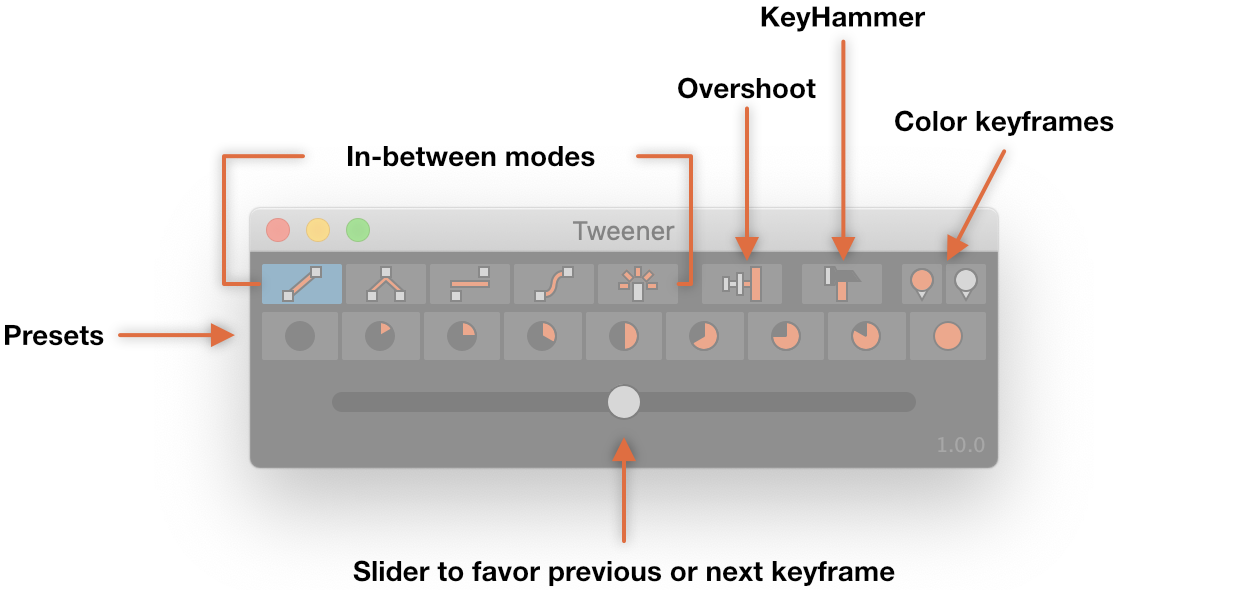
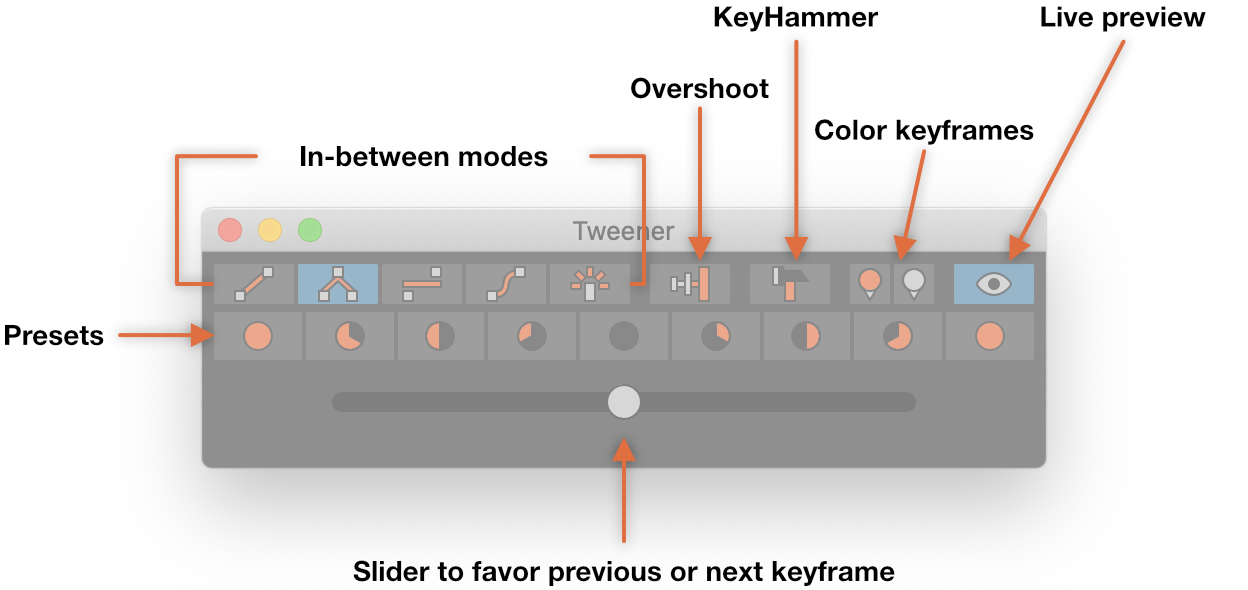
Added live preview toggle. Refactoring.

diff --git a/mods/ui.py b/mods/ui.py
@@ -90,9 +90,10 @@ class TweenerUI(MayaQWidgetDockableMixin, QMainWindow):
         self.idle_callback = None
         self.dragging = False
         self.busy = False
+        self.live_preview = True
         
         # define window dimensions
-        self.setMinimumWidth(apply_dpi_scaling(370))
+        self.setMinimumWidth(apply_dpi_scaling(418))
         self.setSizePolicy(QSizePolicy.Minimum, QSizePolicy.Minimum)
         
         # style
@@ -187,33 +188,30 @@ class TweenerUI(MayaQWidgetDockableMixin, QMainWindow):
         self.overshoot_btn.clicked.connect(self.overshoot_button_clicked)
         self.overshoot_btn.setToolTip('Toggle Overshoot')
         
-        self.keyhammer_btn = Button(icon='icons/keyhammer.svg',
-                                    is_checkable=False)
+        self.keyhammer_btn = Button(icon='icons/keyhammer.svg', is_checkable=False)
         self.keyhammer_btn.clicked.connect(self.keyhammer_button_clicked)
         self.keyhammer_btn.setToolTip('Hammer Keys')
         
-        self.tick_draw_special_btn = Button(icon='icons/tick-special.svg',
-                                            is_checkable=False,
-                                            mini_button=True)
-        self.tick_draw_special_btn.clicked.connect(
-            self.tick_draw_special_clicked)
-        self.tick_draw_special_btn.setToolTip(
-            'Set special tick color for keyframe')
+        self.tick_draw_special_btn = Button(icon='icons/tick-special.svg', is_checkable=False, mini_button=True)
+        self.tick_draw_special_btn.clicked.connect(self.tick_draw_special_clicked)
+        self.tick_draw_special_btn.setToolTip('Set special tick color for keyframe')
         
-        self.tick_draw_normal_btn = Button(icon='icons/tick-normal.svg',
-                                           is_checkable=False, mini_button=True)
+        self.tick_draw_normal_btn = Button(icon='icons/tick-normal.svg', is_checkable=False, mini_button=True)
         self.tick_draw_normal_btn.clicked.connect(self.tick_draw_normal_clicked)
-        self.tick_draw_normal_btn.setToolTip(
-            'Set normal tick color for keyframe')
+        self.tick_draw_normal_btn.setToolTip('Set normal tick color for keyframe')
+        
+        self.live_preview_btn = Button(icon='icons/live-preview.svg', is_checkable=True)
+        self.live_preview_btn.clicked.connect(self.live_preview_clicked)
+        self.live_preview_btn.setToolTip('Live Preview')
         
         misc_button_layout.addWidget(self.overshoot_btn)
-        misc_button_layout.addSpacerItem(
-            QSpacerItem(8, 1, QSizePolicy.Minimum, QSizePolicy.Minimum))
+        misc_button_layout.addSpacerItem(QSpacerItem(8, 1, QSizePolicy.Minimum, QSizePolicy.Minimum))
         misc_button_layout.addWidget(self.keyhammer_btn)
-        misc_button_layout.addSpacerItem(
-            QSpacerItem(8, 1, QSizePolicy.Minimum, QSizePolicy.Minimum))
+        misc_button_layout.addSpacerItem(QSpacerItem(8, 1, QSizePolicy.Minimum, QSizePolicy.Minimum))
         misc_button_layout.addWidget(self.tick_draw_special_btn)
         misc_button_layout.addWidget(self.tick_draw_normal_btn)
+        misc_button_layout.addSpacerItem(QSpacerItem(8, 1, QSizePolicy.Minimum, QSizePolicy.Minimum))
+        misc_button_layout.addWidget(self.live_preview_btn)
         
         # fraction buttons
         self.preset_widget = QWidget(main_widget)
@@ -328,8 +326,7 @@ class TweenerUI(MayaQWidgetDockableMixin, QMainWindow):
         version_label.setAlignment(Qt.AlignRight | Qt.AlignBottom)
         version_label.setStyleSheet('color: rgba(255, 255, 255, 54); font-size: %spx;' % (apply_dpi_scaling(10)))
         
-        slider_label_layout.addWidget(
-            QWidget())  # empty widget to balance layout
+        slider_label_layout.addWidget(QWidget())  # empty widget to balance layout
         slider_label_layout.addWidget(self.slider_label)
         slider_label_layout.addWidget(version_label)
         
@@ -378,16 +375,16 @@ class TweenerUI(MayaQWidgetDockableMixin, QMainWindow):
         self.interpolation_mode = self.mode_button_group.checkedButton().mode()
         
         # only update when maya is idle to prevent multiple calls without seeing the result
-        self.idle_callback = om.MEventMessage.addEventCallback('idle',
-                                                               self.slider_changed)
+        self.idle_callback = om.MEventMessage.addEventCallback('idle', self.slider_changed)
         
-        # disable undo on first call, so we don't get 2 undos in queue
-        # both press and release add to the same cache, so it should be safe
-        cmds.undoInfo(stateWithoutFlush=False)
-        cmds.tweener(t=blend, press=True, type=self.interpolation_mode.idx)
-        cmds.undoInfo(stateWithoutFlush=True)
-        
-        tween.interpolate(blend=blend, mode=self.interpolation_mode)
+        if self.live_preview:
+            # disable undo on first call, so we don't get 2 undos in queue
+            # both press and release add to the same cache, so it should be safe
+            cmds.undoInfo(stateWithoutFlush=False)
+            cmds.tweener(t=blend, newCache=True, type=self.interpolation_mode.idx)
+            cmds.undoInfo(stateWithoutFlush=True)
+            
+            tween.interpolate(blend=blend, mode=self.interpolation_mode)
     
     def slider_changed(self, *args):
         if self.busy or not self.dragging:
@@ -404,14 +401,15 @@ class TweenerUI(MayaQWidgetDockableMixin, QMainWindow):
                                          options.BlendingMode.default]:
             self.slider_label.setText(str(slider_value))
         
-        blend = slider_value / 100.0
-        tween.interpolate(blend=blend, mode=self.interpolation_mode)
-        
-        view = omui2.M3dView()
-        view = view.active3dView()
-        view.refresh()
+        if self.live_preview:
+            blend = slider_value / 100.0
+            tween.interpolate(blend=blend, mode=self.interpolation_mode)
+            
+            view = omui2.M3dView()
+            view = view.active3dView()
+            view.refresh()
+            
         qApp.processEvents()
-        
         self.busy = False
     
     def slider_released(self):
@@ -419,7 +417,10 @@ class TweenerUI(MayaQWidgetDockableMixin, QMainWindow):
         slider_value = self.slider.value()
         
         blend = slider_value / 100.0
-        cmds.tweener(t=blend, press=False, type=self.interpolation_mode.idx)
+        if self.live_preview:
+            cmds.tweener(t=blend, newCache=False, type=self.interpolation_mode.idx)
+        else:
+            cmds.tweener(t=blend, newCache=True, type=self.interpolation_mode.idx)
         
         self.slider.setValue(0)
         self.slider_label.setText('')
@@ -429,12 +430,11 @@ class TweenerUI(MayaQWidgetDockableMixin, QMainWindow):
     def fraction_clicked(self, value):
         value = value * 2.0 - 1.0
         
-        # simulate slider press/release
         self.interpolation_mode = self.mode_button_group.checkedButton().mode()
         cmds.undoInfo(openChunk=True, chunkName="tweener")
         try:
-            cmds.tweener(t=value, press=True, type=self.interpolation_mode.idx)
-            cmds.tweener(t=value, press=False, type=self.interpolation_mode.idx)
+            cmds.tweener(t=value, newCache=True, type=self.interpolation_mode.idx)
+            # cmds.tweener(t=value, newCache=False, type=self.interpolation_mode.idx)
         finally:
             cmds.undoInfo(closeChunk=True)
     
@@ -460,6 +460,15 @@ class TweenerUI(MayaQWidgetDockableMixin, QMainWindow):
         
         self.overshoot_button_clicked()  # simulate button click to setup slider values
         
+        # live preview state
+        try:
+            self.live_preview_btn.setChecked(options.load_live_preview())
+        except Exception as e:
+            self.live_preview_btn.setChecked(True)
+            sys.stdout.write('# %s\n' % e)
+            
+        self.live_preview_clicked()  # simulate clicked to setup values
+            
         # visibility of toolbar and preset buttons
         try:
             v_t = options.load_toolbar()
@@ -542,6 +551,13 @@ class TweenerUI(MayaQWidgetDockableMixin, QMainWindow):
             tween.tick_draw_special(special=False)
         finally:
             cmds.undoInfo(closeChunk=True)
+    
+    def live_preview_clicked(self):
+        checked = self.live_preview_btn.isChecked()
+        self.live_preview = checked
+        
+        # save setting
+        options.save_live_preview(checked)
     
     @staticmethod
     def v_separator_layout():

diff --git a/tweener.py b/tweener.py
@@ -180,14 +180,14 @@ class TweenerCmd(om.MPxCommand):
     # command flags
     interpolant_flag = '-t'
     interpolant_flag_long = '-interpolant'
-    press_flag = '-p'
-    press_flag_long = '-press'
     type_flag = '-tp'
     type_flag_long = '-type'
+    new_cache_flag = '-nc'
+    new_cache_long = '-newCache'
     
     # default command argument values
     blend_arg = 0
-    press_arg = False
+    new_cache_arg = True
     type_arg = None
     
     def __init__(self):
@@ -202,9 +202,8 @@ class TweenerCmd(om.MPxCommand):
         syntax = om.MSyntax()
         
         # add flags
-        syntax.addFlag(cls.interpolant_flag, cls.interpolant_flag_long,
-                       om.MSyntax.kDouble)
-        syntax.addFlag(cls.press_flag, cls.press_flag_long, om.MSyntax.kBoolean)
+        syntax.addFlag(cls.interpolant_flag, cls.interpolant_flag_long, om.MSyntax.kDouble)
+        syntax.addFlag(cls.new_cache_flag, cls.new_cache_long, om.MSyntax.kBoolean)
         syntax.addFlag(cls.type_flag, cls.type_flag_long, om.MSyntax.kLong)
         return syntax
     
@@ -212,11 +211,10 @@ class TweenerCmd(om.MPxCommand):
         arg_data = om.MArgParser(self.syntax(), args)
         
         if arg_data.isFlagSet(self.interpolant_flag):
-            self.blend_arg = arg_data.flagArgumentDouble(self.interpolant_flag,
-                                                         0)
+            self.blend_arg = arg_data.flagArgumentDouble(self.interpolant_flag, 0)
         
-        if arg_data.isFlagSet(self.press_flag):
-            self.press_arg = arg_data.flagArgumentBool(self.press_flag, 0)
+        if arg_data.isFlagSet(self.new_cache_flag):
+            self.new_cache_arg = arg_data.flagArgumentBool(self.new_cache_flag, 0)
         
         if arg_data.isFlagSet(self.type_flag):
             self.type_arg = arg_data.flagArgumentInt(self.type_flag, 0)
@@ -232,16 +230,15 @@ class TweenerCmd(om.MPxCommand):
         # the animation cache must be stored in the command instance itself so
         # we pass a reference to the cache to the Lt class, so we can manipulate
         # the currently active cache
-        if self.press_arg:
-            # if press, then create a new cache
+        if self.new_cache_arg:
+            # if initialize, then create a new cache
             self.anim_cache = oma.MAnimCurveChange()
             animdata.anim_cache = self.anim_cache
             animdata.prepare(mode=options.BlendingMode.get_mode_from_id(self.type_arg))
-        else:
-            # else use the existing stored at module level
-            self.anim_cache = animdata.anim_cache
-            tween.interpolate(blend=self.blend_arg,
-                              mode=options.BlendingMode.get_mode_from_id(self.type_arg))
+        
+        # always interpolate
+        self.anim_cache = animdata.anim_cache
+        tween.interpolate(blend=self.blend_arg, mode=options.BlendingMode.get_mode_from_id(self.type_arg))
     
     def redoIt(self):
         self.anim_cache.redoIt()

diff --git a/mods/tool.py b/mods/tool.py
@@ -48,6 +48,7 @@ class Tool:
         
         self.interpolation_mode = options.load_interpolation_mode()
         self.overshoot = options.load_overshoot()
+        self.live_preview = options.load_live_preview()
         
         if not g.plugin_path:
             g.refresh_plug_in_path()
@@ -76,15 +77,17 @@ class Tool:
                                                   anchorPoint=True)
         self.interpolation_mode = options.load_interpolation_mode()
         self.overshoot = options.load_overshoot()
+        self.live_preview = options.load_live_preview()
         
         # disable undo on first call, so we don't get 2 undos in queue
         # both press and release add to the same cache, so it should be safe
-        cmds.undoInfo(stateWithoutFlush=False)
-        cmds.tweener(t=0.0, press=True, type=self.interpolation_mode.idx)
-        cmds.undoInfo(stateWithoutFlush=True)
-        
-        tween.interpolate(blend=0.0, mode=self.interpolation_mode)
-        cmds.refresh()
+        if self.live_preview:
+            cmds.undoInfo(stateWithoutFlush=False)
+            cmds.tweener(t=0.0, newCache=True, type=self.interpolation_mode.idx)
+            cmds.undoInfo(stateWithoutFlush=True)
+            
+            tween.interpolate(blend=0.0, mode=self.interpolation_mode)
+            cmds.refresh()
     
     def drag(self):
         """
@@ -94,16 +97,21 @@ class Tool:
                                                  q=True,
                                                  dragPoint=True)
         
-        blend = self.get_blend()
-        tween.interpolate(blend=blend, mode=self.interpolation_mode)
-        cmds.refresh()
+        if self.live_preview:
+            blend = self.get_blend()
+            tween.interpolate(blend=blend, mode=self.interpolation_mode)
+            cmds.refresh()
     
     def release(self):
         """
         Dragger context release event handler.
         """
         blend = self.get_blend()
-        cmds.tweener(t=blend, press=False, type=self.interpolation_mode.idx)
+        if self.live_preview:
+            cmds.tweener(t=blend, newCache=False, type=self.interpolation_mode.idx)
+        else:
+            cmds.tweener(t=blend, newCache=True, type=self.interpolation_mode.idx)
+            
         cmds.refresh()
         
     def finalize(self):

diff --git a/mods/options.py b/mods/options.py
@@ -86,6 +86,27 @@ def load_overshoot():
     return False
 
 
+def save_live_preview(value=True):
+    """
+    Saves the live preview state using Maya optionVars.
+    :param value: Current state of the live preview toggle
+    :return:
+    """
+    cmds.optionVar(iv=('tweener_live_preview', int(value)))
+
+
+def load_live_preview():
+    """
+    Loads the live preview state from Maya optionVars.
+    :return:  The loaded live preview state
+    :rtype: bool
+    """
+    if cmds.optionVar(exists='tweener_live_preview'):
+        return bool(cmds.optionVar(q='tweener_live_preview'))
+    
+    return True
+
+
 def save_toolbar(visible=True):
     """
     Saves the visibility of window buttons

diff --git a/mods/utils.py b/mods/utils.py
@@ -346,10 +346,10 @@ def get_curve_tangents_bezier_points(curve_fn, start_index, end_index):
     p4 = Point(curve_fn.input(end_index).asUnits(om.MTime.kSeconds), curve_fn.value(end_index))
     
     p2 = curve_fn.getTangentXY(start_index, False)  # inTangent = False
-    p2 = Point(p1.x + p2[0] / 3, p1.y + p2[1] / 3)
+    p2 = Point(p1.x + p2[0] / 3.0, p1.y + p2[1] / 3.0)
     
     p3 = curve_fn.getTangentXY(end_index, True)  # inTangent = True
-    p3 = Point(p4.x - p3[0] / 3, p4.y - p3[1] / 3)
+    p3 = Point(p4.x - p3[0] / 3.0, p4.y - p3[1] / 3.0)
     
     return p1, p2, p3, p4
 

diff --git a/mods/tween.py b/mods/tween.py
@@ -70,7 +70,7 @@ def interpolate_average(t):
         is_single = length < 2
         avg_val = 0
         if not is_single:
-            avg_val = sum(key_group.value) / length
+            avg_val = sum(key_group.value) / float(length)
         for i in range(length):
             if is_single:
                 avg_val = (key_group.prev_value[i] + key_group.next_value[

diff --git a/mods/globals.py b/mods/globals.py
@@ -7,7 +7,7 @@ import maya.cmds as cmds
 
 plugin_name = 'tweener.py'
 plugin_path = ''
-plugin_version = '1.0.1'
+plugin_version = '1.0.2'
 
 
 def refresh_plug_in_path():

diff --git a/README.md b/README.md
@@ -55,13 +55,14 @@ explore each type. See the description of each mode below.
 | Icon | Name | Description |
 | :---: | :--- | :--- |
 | <img src="icons/overshoot.svg" width="20" height="20"> | Overshoot | Extends the interpolation from `[-100:100]` to `[-200:200]` and allows you to go past the target. |
-| <img src="icons/keyhammer.svg" width="20" height="20"> | Key Hammer | Adds a key for every attribute for any key on selected objects. The manual equivalent method would be to go to the first key and press `S`, go to the next keyframe and press `S`, go to the next keyframe and press `S` etc. for every keyframe. |
+| <img src="icons/keyhammer.svg" width="20" height="20"> | Key Hammer | Adds a key for all attributes, wherever a key is already set. This ensures that all attributes are keyed on all keyframes. Useful if you think like a traditional animator or need to retime. |
 | <img src="icons/tick-special.svg" width="20" height="20"> | Special Tick Color | Sets the current frame, selected keys, or time range to the special keyframe tick color. |
 | <img src="icons/tick-normal.svg" width="20" height="20"> | Normal Tick Color | Sets the current frame, selected keys, or time range to the normal keyframe tick color. |
+| <img src="icons/live-preview.svg" width="20" height="20"> | Live Preview | Toggles live preview when dragging slider. |
 
 ### Show or Hide UI Elements
 
-For an even smaller window, you can right click anywhere in the window to show or hide the toolbar or preset buttons
+For an even smaller window, you can right click anywhere in the window to show or hide the toolbar or preset buttons.
 
 ## Known Issues
 
